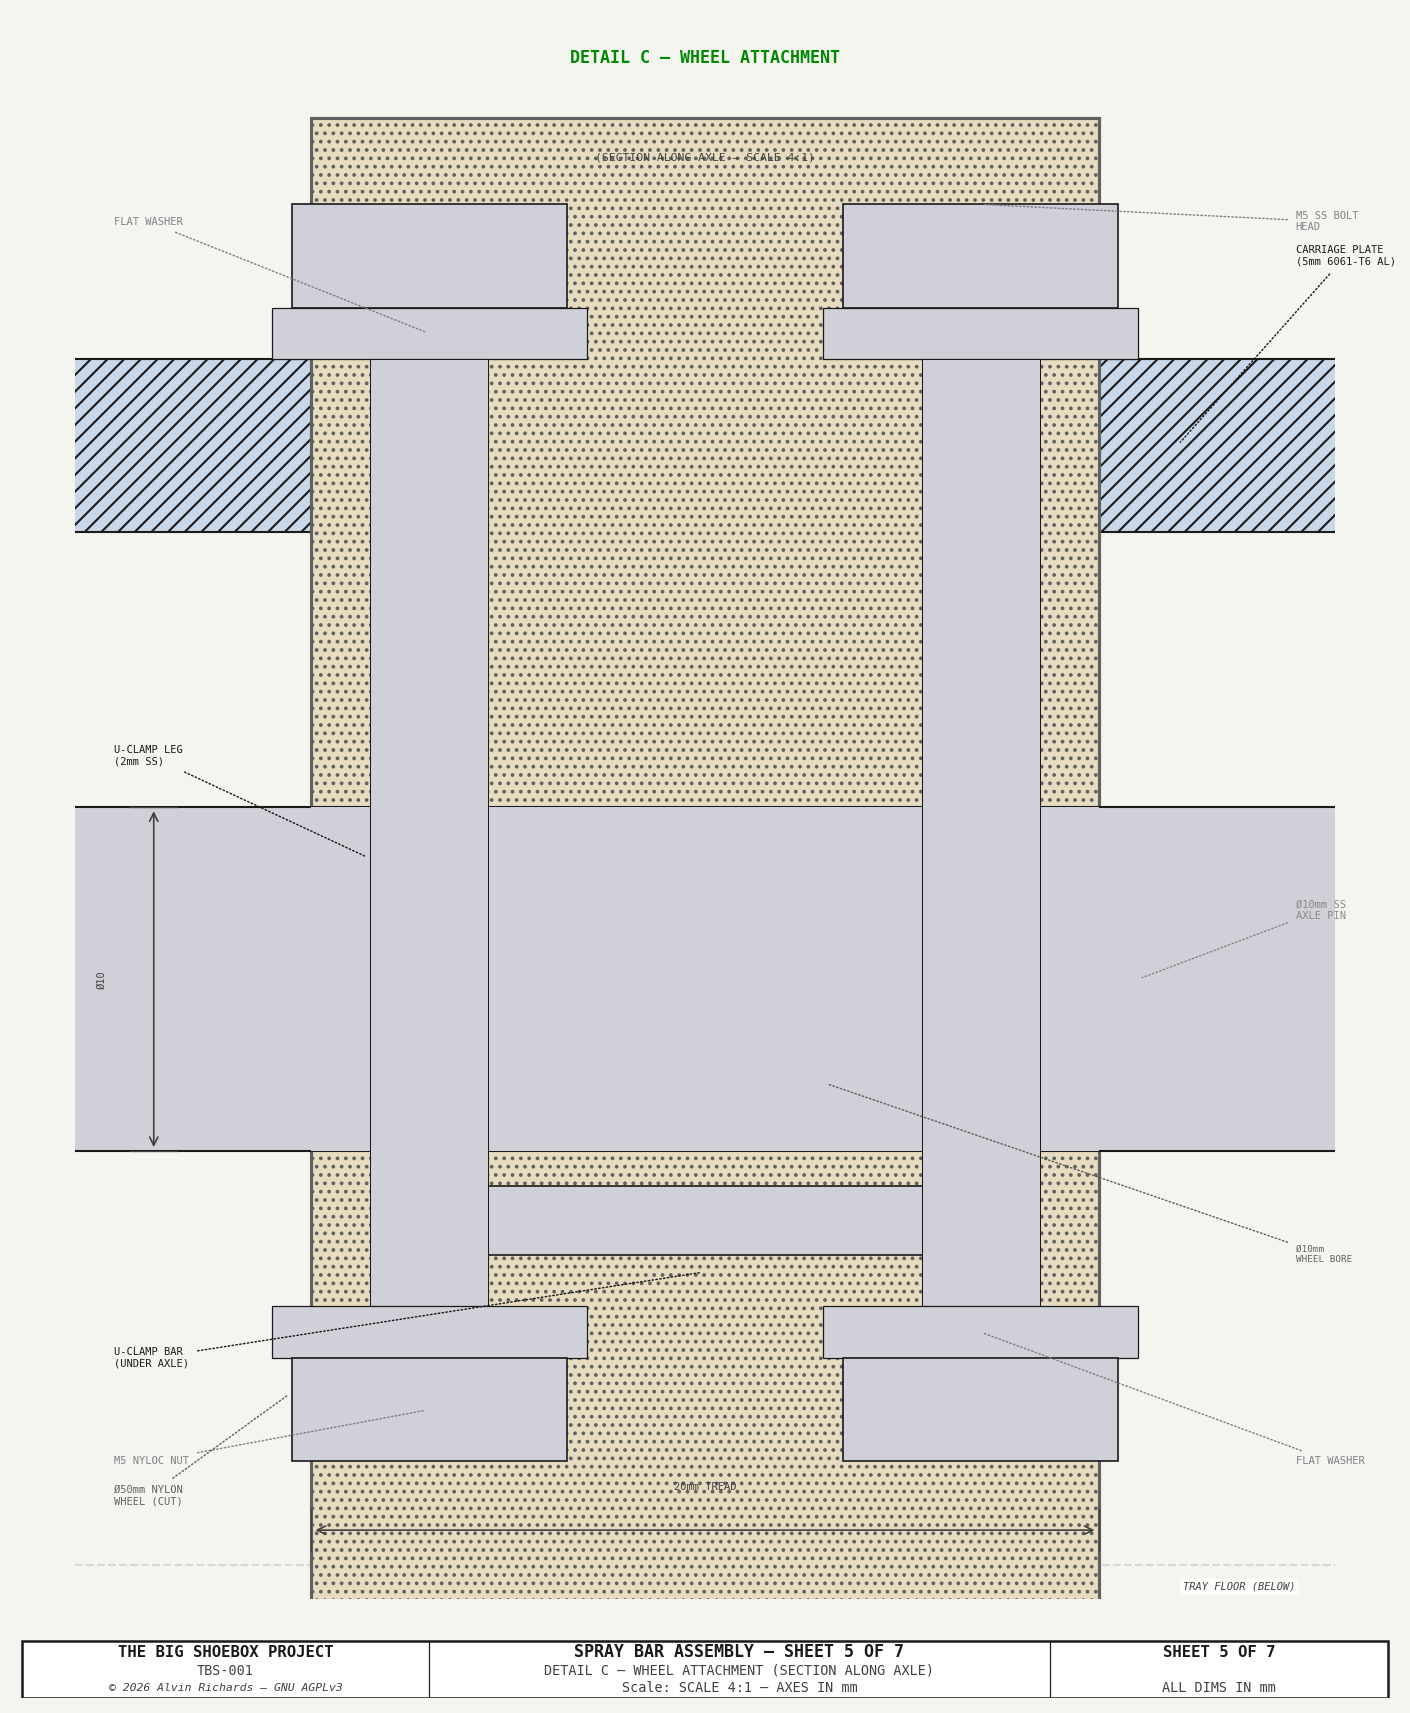
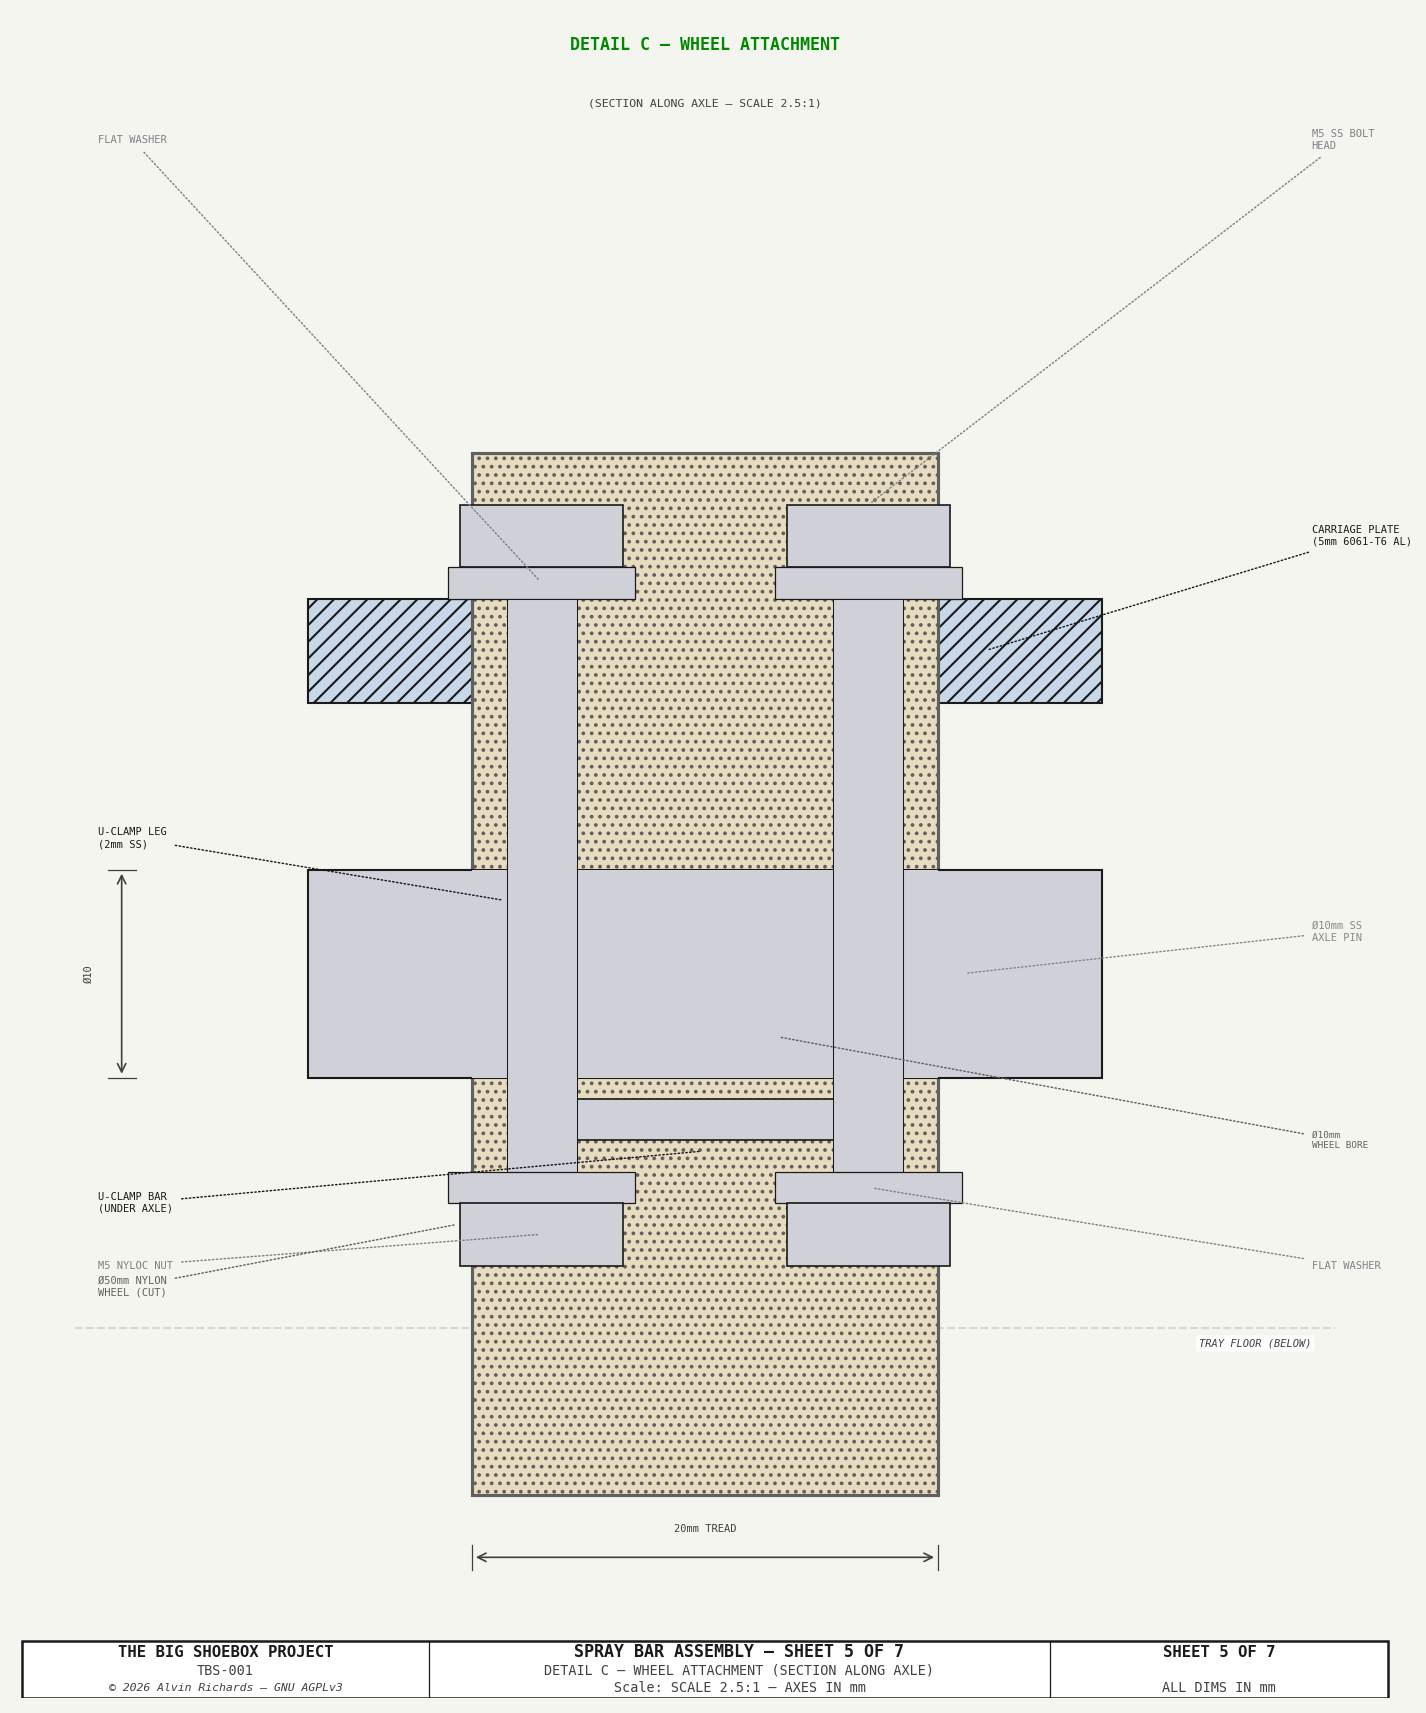
Sheet 5: reduce scale 40% (4:1 to 2.5:1), widen view limits

diff --git a/src/generators/generate_spray_bar_diagram.py b/src/generators/generate_spray_bar_diagram.py
@@ -1301,8 +1301,8 @@ def draw_sheet5():
     ax_w.set_facecolor(C_BG)
     ax_w.axis("off")
 
-    w_xl, w_xr = -16, 16
-    w_yb, w_yt = -18, 28
+    w_xl, w_xr = -27, 27
+    w_yb, w_yt = -30, 46
     ax_w.set_xlim(w_xl, w_xr)
     ax_w.set_ylim(w_yb, w_yt)
 
@@ -1311,7 +1311,7 @@ def draw_sheet5():
               ha="center", va="top", fontsize=8, color="#008800",
               fontweight="bold", **FONT, zorder=20)
     ax_w.text(0, w_yt - 4,
-              "(SECTION ALONG AXLE — SCALE 4:1)",
+              "(SECTION ALONG AXLE — SCALE 2.5:1)",
               ha="center", va="top", fontsize=5.5, color=C_DIM,
               **FONT, zorder=20)
 
@@ -1471,7 +1471,7 @@ def draw_sheet5():
     title_block(ax_tb, f"SHEET 5 OF {TOTAL_SHEETS}",
                 drawing_title="SPRAY BAR ASSEMBLY",
                 subtitle="DETAIL C — WHEEL ATTACHMENT (SECTION ALONG AXLE)",
-                scale_note="SCALE 4:1 — AXES IN mm",
+                scale_note="SCALE 2.5:1 — AXES IN mm",
                 height=0.7)
 
     _save(fig, "spray-bar-sheet5")
